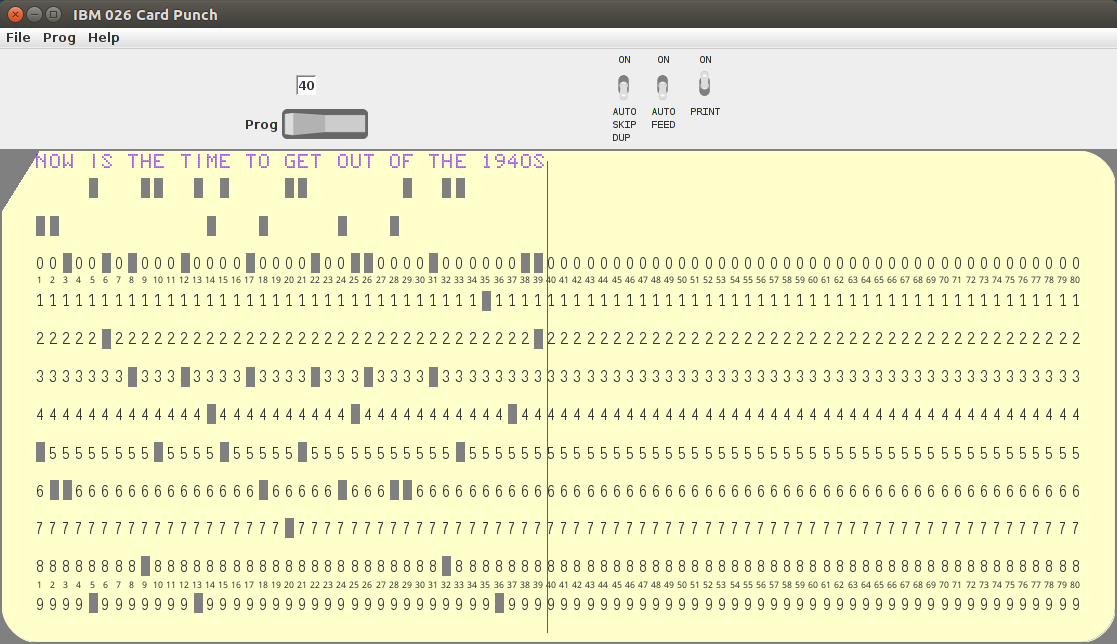
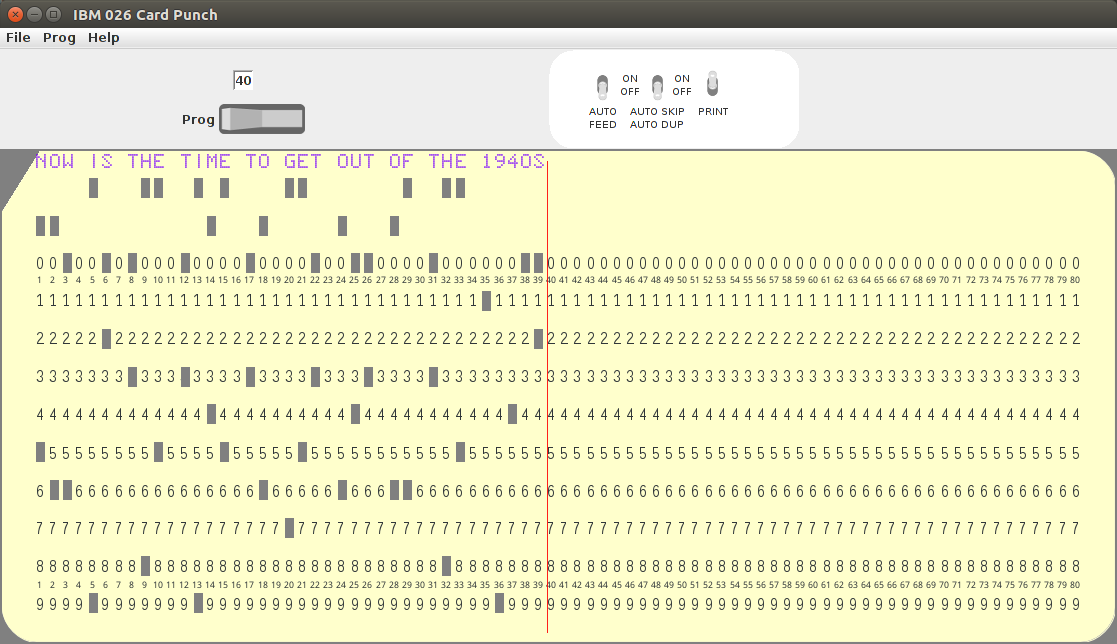
Refine card punch appearance

Changed region(s): [[0.5175, 0.0932, 0.6392, 0.2174], [0.1826, 0.1553, 0.3348, 0.2174]]

diff --git a/cardpunch/www/ibm029.html b/cardpunch/www/ibm029.html
@@ -33,5 +33,6 @@ a valid character, nothing is printed.
 
 <P>Downloads are available at <A HREF="http://sebhc.durgadas.com/hw2000">sebhc.durgadas.com/hw2000</A>
 <P>Contact: <A HREF="emailto:durgadas311@gmail">durgadas311@gmail</A>
+<P><IMG SRC="ibm026.png" >
 </BODY>
 </HTML>

diff --git a/cardpunch/PunchCardDeck.java b/cardpunch/PunchCardDeck.java
@@ -85,7 +85,7 @@ class PunchCardDeck extends PunchCard
 
 	public PunchCardDeck(JFrame frame, CardPunchOptions opts) {
 		super(opts);
-		labels = new Font("Monospaced", Font.PLAIN, 10);
+		labels = new Font("Sans-Serif", Font.PLAIN, 10);
 		pgm_on = new ImageIcon(getClass().getResource("icons/ibm029-pgm-30-on.png"));
 		pgm_off = new ImageIcon(getClass().getResource("icons/ibm029-pgm-30-off.png"));
 		if (opts.ibm026) {
@@ -241,8 +241,8 @@ class PunchCardDeck extends PunchCard
 		}
 	}
 
-	private void labeledToggle(AbstractButton sw, String top, String bot) {
-		pn_gc.gridheight = 1;
+	private void iconToggle(AbstractButton sw) {
+		sw.setOpaque(false);
 		sw.setText("");
 		sw.setIcon(icn_off);
 		if (sw instanceof JButton) {
@@ -255,6 +255,12 @@ class PunchCardDeck extends PunchCard
 			sw.setSelectedIcon(icn_on);
 			sw.setPressedIcon(icn_pr);
 		}
+	}
+
+	private void labeledToggle(AbstractButton sw, String top, String bot,
+					boolean gap) {
+		pn_gc.gridheight = 1;
+		iconToggle(sw);
 		JLabel lb = new JLabel(top);
 		lb.setFont(labels);
 		pn_gc.anchor = GridBagConstraints.SOUTH;
@@ -276,11 +282,126 @@ class PunchCardDeck extends PunchCard
 		pn_gc.gridheight = 3;
 		pn_gc.gridy = 0;
 		//
+		if (gap) {
+			JPanel spc = new JPanel();
+			spc.setPreferredSize(new Dimension(15, 20));
+			pn_gb.setConstraints(spc, pn_gc);
+			pn_pn.add(spc);
+			++pn_gc.gridx;
+		}
+	}
+
+	class Ibm026SwitchPlate extends JPanel {
+		int _sx, _sy, _arcw;
+
+		public Ibm026SwitchPlate(int w, int h, int r) {
+			super();
+			setOpaque(false);
+			setPreferredSize(new Dimension(w, h));
+			_sx = w;
+			_sy = h;
+			_arcw = r;
+		}
+		public void paint(Graphics g) {
+			Graphics2D g2d = (Graphics2D)g;
+			g2d.setColor(Color.white);
+			g2d.fillRoundRect(0, 0, _sx, _sy, _arcw, _arcw);
+			super.paint(g);
+		}
+	}
+
+	private JPanel ibm026Switches(CardPunchOptions opts) {
+		JPanel pan = new Ibm026SwitchPlate(250, 98, 48);
+		GridBagLayout gb = new GridBagLayout();
+		pan.setLayout(gb);
+		GridBagConstraints gc = new GridBagConstraints();
+		gc.fill = GridBagConstraints.NONE;
+		gc.gridx = 0;
+		gc.gridy = 0;
+		gc.weightx = 0;
+		gc.weighty = 0;
+		gc.gridwidth = 1;
+		gc.gridheight = 1;
+		gc.insets.bottom = 0;
+		gc.insets.top = 0;
+		gc.insets.left = 0;
+		gc.insets.right = 0;
+		gc.anchor = GridBagConstraints.CENTER;
 		JPanel spc = new JPanel();
-		spc.setPreferredSize(new Dimension(15, 20));
-		pn_gb.setConstraints(spc, pn_gc);
-		pn_pn.add(spc);
-		++pn_gc.gridx;
+		spc.setPreferredSize(new Dimension(20, 20));
+		spc.setOpaque(false);
+		gc.gridheight = 3;
+		gb.setConstraints(spc, gc);
+		pan.add(spc);
+		++gc.gridx;
+		gc.gridheight = 1;
+		int savex = gc.gridx;
+		//
+		gc.gridwidth = 5;
+		JLabel lb = new JLabel("");
+		lb.setFont(labels);
+		gc.anchor = GridBagConstraints.SOUTH;
+		gb.setConstraints(lb, gc);
+		pan.add(lb);
+		gc.gridwidth = 1;
+		//
+		gc.gridx = savex;
+		++gc.gridy;
+		gc.anchor = GridBagConstraints.CENTER;
+		iconToggle(_autoFeed_cb);
+		gb.setConstraints(_autoFeed_cb, gc);
+		pan.add(_autoFeed_cb);
+		++gc.gridx;
+		lb = new JLabel("<HTML>&nbsp;&#8239;ON&nbsp;<BR>&nbsp;OFF&nbsp;</HTML>");
+		lb.setFont(labels);
+		gb.setConstraints(lb, gc);
+		pan.add(lb);
+		++gc.gridx;
+		iconToggle(_autoSD_cb);
+		gb.setConstraints(_autoSD_cb, gc);
+		pan.add(_autoSD_cb);
+		++gc.gridx;
+		lb = new JLabel("<HTML>&nbsp;&#8239;ON&nbsp;<BR>&nbsp;OFF&nbsp;</HTML>");
+		lb.setFont(labels);
+		gb.setConstraints(lb, gc);
+		pan.add(lb);
+		++gc.gridx;
+		iconToggle(_print_cb);
+		gb.setConstraints(_print_cb, gc);
+		pan.add(_print_cb);
+		++gc.gridx;
+
+		gc.gridx = savex;
+		++gc.gridy;
+		gc.anchor = GridBagConstraints.NORTH;
+		lb = new JLabel("<HTML>AUTO<BR>FEED</HTML>");
+		lb.setFont(labels);
+		gb.setConstraints(lb, gc);
+		pan.add(lb);
+		++gc.gridx;
+		gc.gridwidth = 3;
+		lb = new JLabel("<HTML>AUTO SKIP<BR>" +
+				"AUTO DUP</HTML>");
+		lb.setFont(labels);
+		gb.setConstraints(lb, gc);
+		pan.add(lb);
+		gc.gridx += 3;
+		gc.gridwidth = 1;
+		lb = new JLabel("PRINT");
+		lb.setFont(labels);
+		gb.setConstraints(lb, gc);
+		pan.add(lb);
+		++gc.gridx;
+
+		gc.gridy = 0;
+		gc.gridheight = 3;
+		spc = new JPanel();
+		spc.setPreferredSize(new Dimension(50, 20));
+		spc.setOpaque(false);
+		gb.setConstraints(spc, gc);
+		pan.add(spc);
+
+		return pan;
 	}
 
 	private void ibm026Panel(CardPunchOptions opts) {
@@ -291,7 +412,11 @@ class PunchCardDeck extends PunchCard
 		pn_pn.add(spc);
 		++pn_gc.gridx;
 		pn_gc.gridheight = 1;
-		pn_gc.gridy = 1;
+		spc = new JPanel();
+		spc.setPreferredSize(new Dimension(20, 20));
+		pn_gb.setConstraints(spc, pn_gc);
+		pn_pn.add(spc);
+		++pn_gc.gridy;
 		pn_gb.setConstraints(_col_lb, pn_gc);
 		pn_pn.add(_col_lb);
 		++pn_gc.gridy;
@@ -301,13 +426,14 @@ class PunchCardDeck extends PunchCard
 		pn_gc.gridheight = 3;
 		++pn_gc.gridx;
 		spc = new JPanel();
-		spc.setPreferredSize(new Dimension(240, 20));
+		spc.setPreferredSize(new Dimension(240, 90));
 		pn_gb.setConstraints(spc, pn_gc);
 		pn_pn.add(spc);
 		++pn_gc.gridx;
-		labeledToggle(_autoSD_cb, "ON", "<HTML>AUTO<BR>SKIP<BR>DUP</HTML>");
-		labeledToggle(_autoFeed_cb, "ON", "<HTML>AUTO<BR>FEED</HTML>");
-		labeledToggle(_print_cb, "ON", "PRINT");
+		spc = ibm026Switches(opts);
+		pn_gb.setConstraints(spc, pn_gc);
+		pn_pn.add(spc);
+		++pn_gc.gridx;
 		spc = new JPanel();
 		spc.setPreferredSize(new Dimension(240, 20));
 		pn_gb.setConstraints(spc, pn_gc);
@@ -337,13 +463,13 @@ class PunchCardDeck extends PunchCard
 		pn_gb.setConstraints(spc, pn_gc);
 		pn_pn.add(spc);
 		++pn_gc.gridx;
-		labeledToggle(_interp_cb, "INTERP", "PUNCH");
+		labeledToggle(_interp_cb, "INTERP", "PUNCH", true);
 		spc = new JPanel();
 		spc.setPreferredSize(new Dimension(35, 20));
 		pn_gb.setConstraints(spc, pn_gc);
 		pn_pn.add(spc);
 		++pn_gc.gridx;
-		labeledToggle(_autoSD_cb, "ON", "<HTML>AUTO<BR>SKIP<BR>DUP</HTML>");
+		labeledToggle(_autoSD_cb, "ON", "<HTML>AUTO<BR>&#8239;SKIP<BR>&#8239;DUP</HTML>", true);
 		JSeparator sp = new JSeparator(SwingConstants.VERTICAL);
 		sp.setPreferredSize(new Dimension(3, 90));
 		sp.setForeground(Color.black);
@@ -355,10 +481,10 @@ class PunchCardDeck extends PunchCard
 		pn_gb.setConstraints(spc, pn_gc);
 		pn_pn.add(spc);
 		++pn_gc.gridx;
-		labeledToggle(_progSel_cb, "ONE", "<HTML>TWO<BR>PROG<BR>SEL</HTML>");
-		labeledToggle(_autoFeed_cb, "ON", "<HTML>AUTO<BR>FEED</HTML>");
-		labeledToggle(_print_cb, "ON", "PRINT");
-		labeledToggle(_lzprint_cb, "ON", "<HTML>&nbsp;LZ<BR>PRINT</HTML>");
+		labeledToggle(_progSel_cb, "ONE", "<HTML>&nbsp;&#8239;TWO<BR>PROG<BR>&nbsp;&#8239;SEL</HTML>", true);
+		labeledToggle(_autoFeed_cb, "ON", "<HTML>AUTO<BR>FEED</HTML>", true);
+		labeledToggle(_print_cb, "ON", "PRINT", true);
+		labeledToggle(_lzprint_cb, "ON", "<HTML>&nbsp;&nbsp;&#8239;LZ<BR>PRINT</HTML>", true);
 		spc = new JPanel();
 		spc.setPreferredSize(new Dimension(100, 20));
 		pn_gb.setConstraints(spc, pn_gc);
@@ -374,7 +500,7 @@ class PunchCardDeck extends PunchCard
 		pn_gb.setConstraints(spc, pn_gc);
 		pn_pn.add(spc);
 		++pn_gc.gridx;
-		labeledToggle(_clear_bn, "ON", "CLEAR");
+		labeledToggle(_clear_bn, "ON", "CLEAR", true);
 		spc = new JPanel();
 		spc.setPreferredSize(new Dimension(40, 20));
 		pn_gb.setConstraints(spc, pn_gc);
